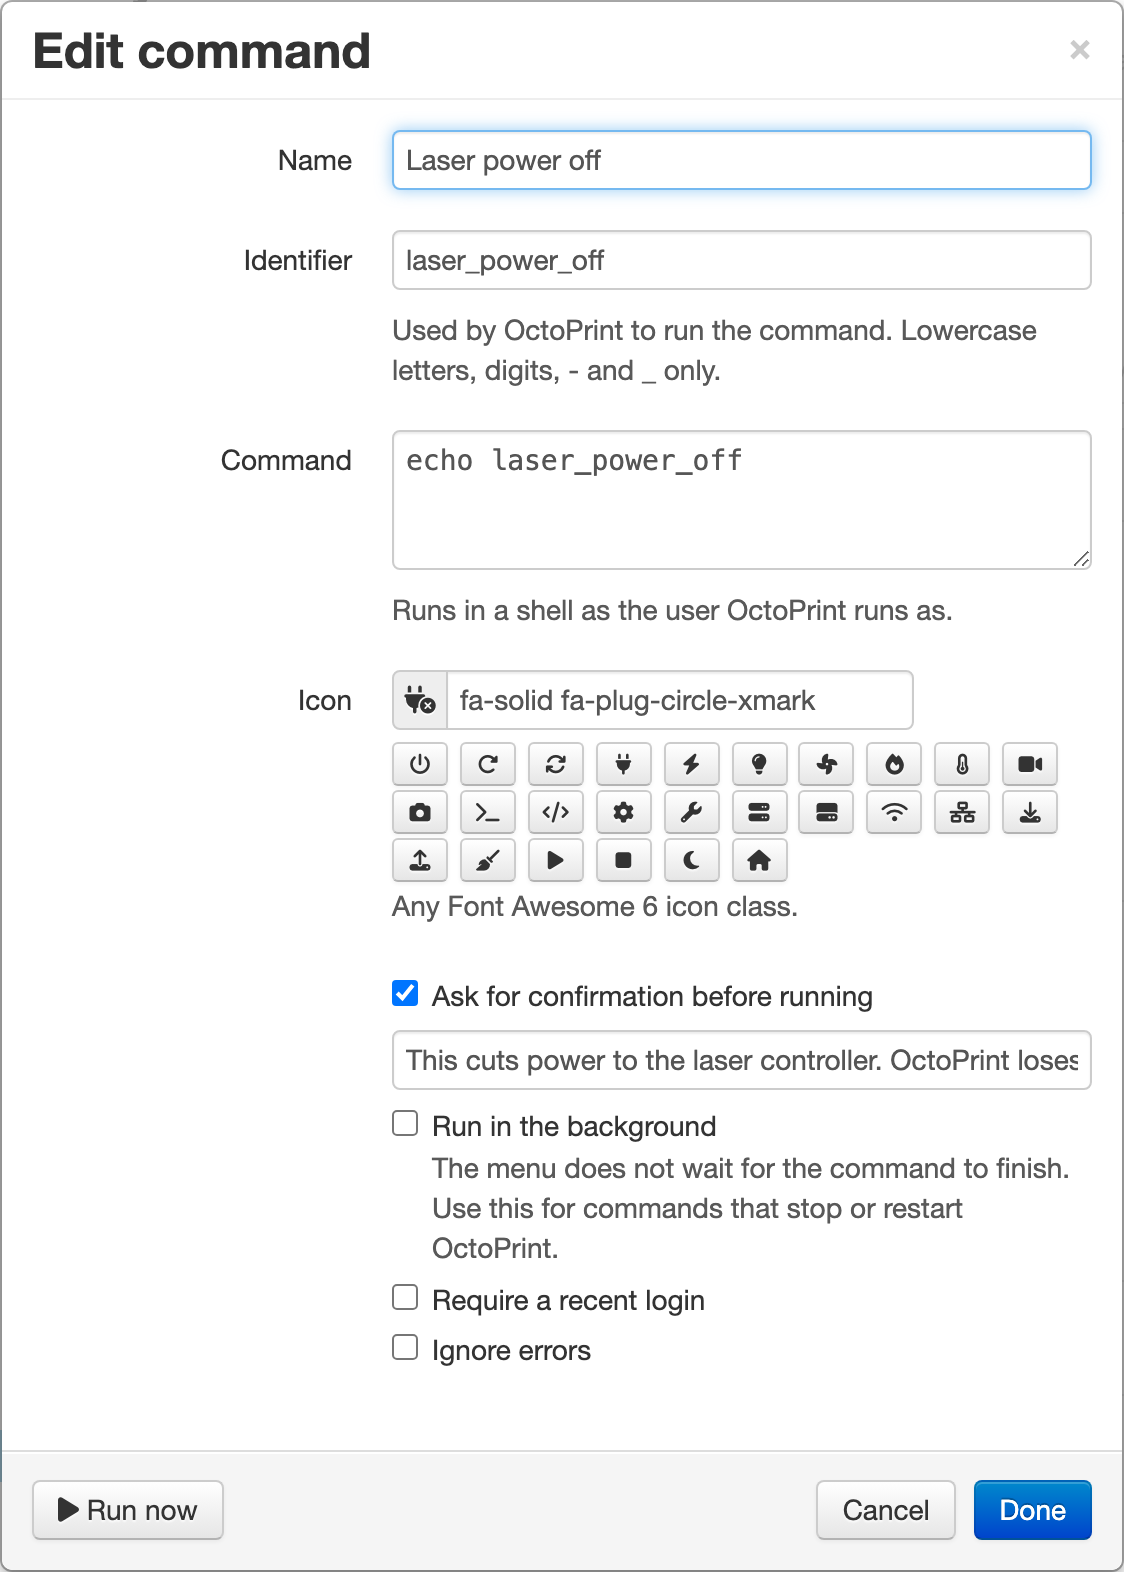
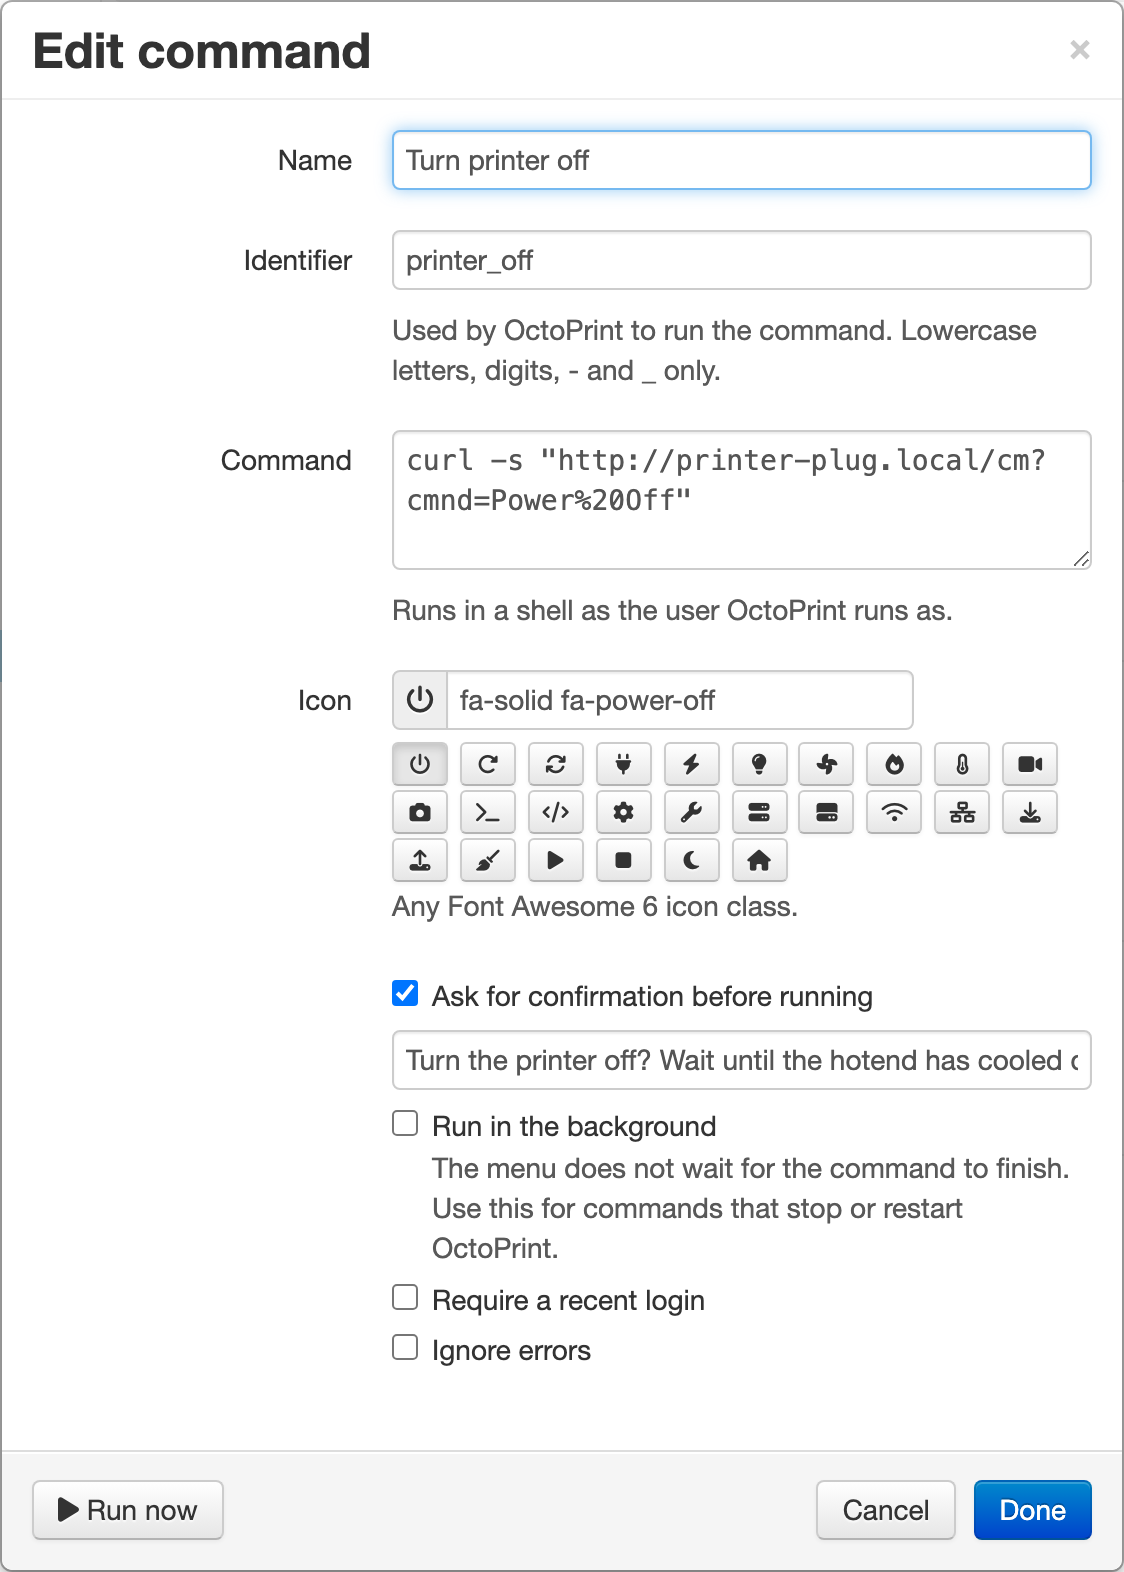
Show 3D printer examples in the README and screenshots
Most users run a 3D printer, so the screenshots and a new Examples
section now show printer power on a smart plug, a chamber heater and
lights, the camera stream and backups.

diff --git a/README.md b/README.md
@@ -31,6 +31,24 @@ from **Settings → Plugins → System Command Editor**.
 Changes take effect when you click **Save** in the settings dialog. On OctoPrint 2.0 you are asked for your
 password, because OctoPrint requires a recent login to change system commands.
 
+## Examples
+
+Any shell command the OctoPrint user can run works. Some common ones for a printer setup:
+
+| Section | Command | What it runs |
+|---|---|---|
+| Printer | Turn printer on / off | `curl -s "http://printer-plug.local/cm?cmnd=Power%20On"` on a Tasmota smart plug (`Power%20Off` to turn it off) |
+| Chamber | Chamber heater on / off | the same `curl` against the heater's smart plug |
+| Chamber | Chamber light on / off | `pinctrl set 17 op dh` / `pinctrl set 17 op dl` for a relay on a Raspberry Pi GPIO pin |
+| Camera | Restart camera stream | `sudo systemctl restart camera-streamer` |
+| Laser module | Laser power on / off | the same `curl` against the laser's smart plug |
+| Maintenance | Back up OctoPrint | `~/oprint/bin/octoprint plugins backup:backup`, run in the background |
+| Maintenance | Delete old timelapses | `find ~/.octoprint/timelapse -name '*.mp4' -mtime +30 -delete` |
+
+Turn on **Ask for confirmation** for anything you would not want to click by mistake, like turning the printer off
+while the hotend is still hot. A command that uses `sudo` needs a sudoers rule that lets the OctoPrint user run it
+without a password. Host names, GPIO pins and paths depend on your setup.
+
 ## Where your commands are kept
 
 Commands are stored where OctoPrint keeps them, under `system.actions` in `config.yaml`. The plugin keeps no
